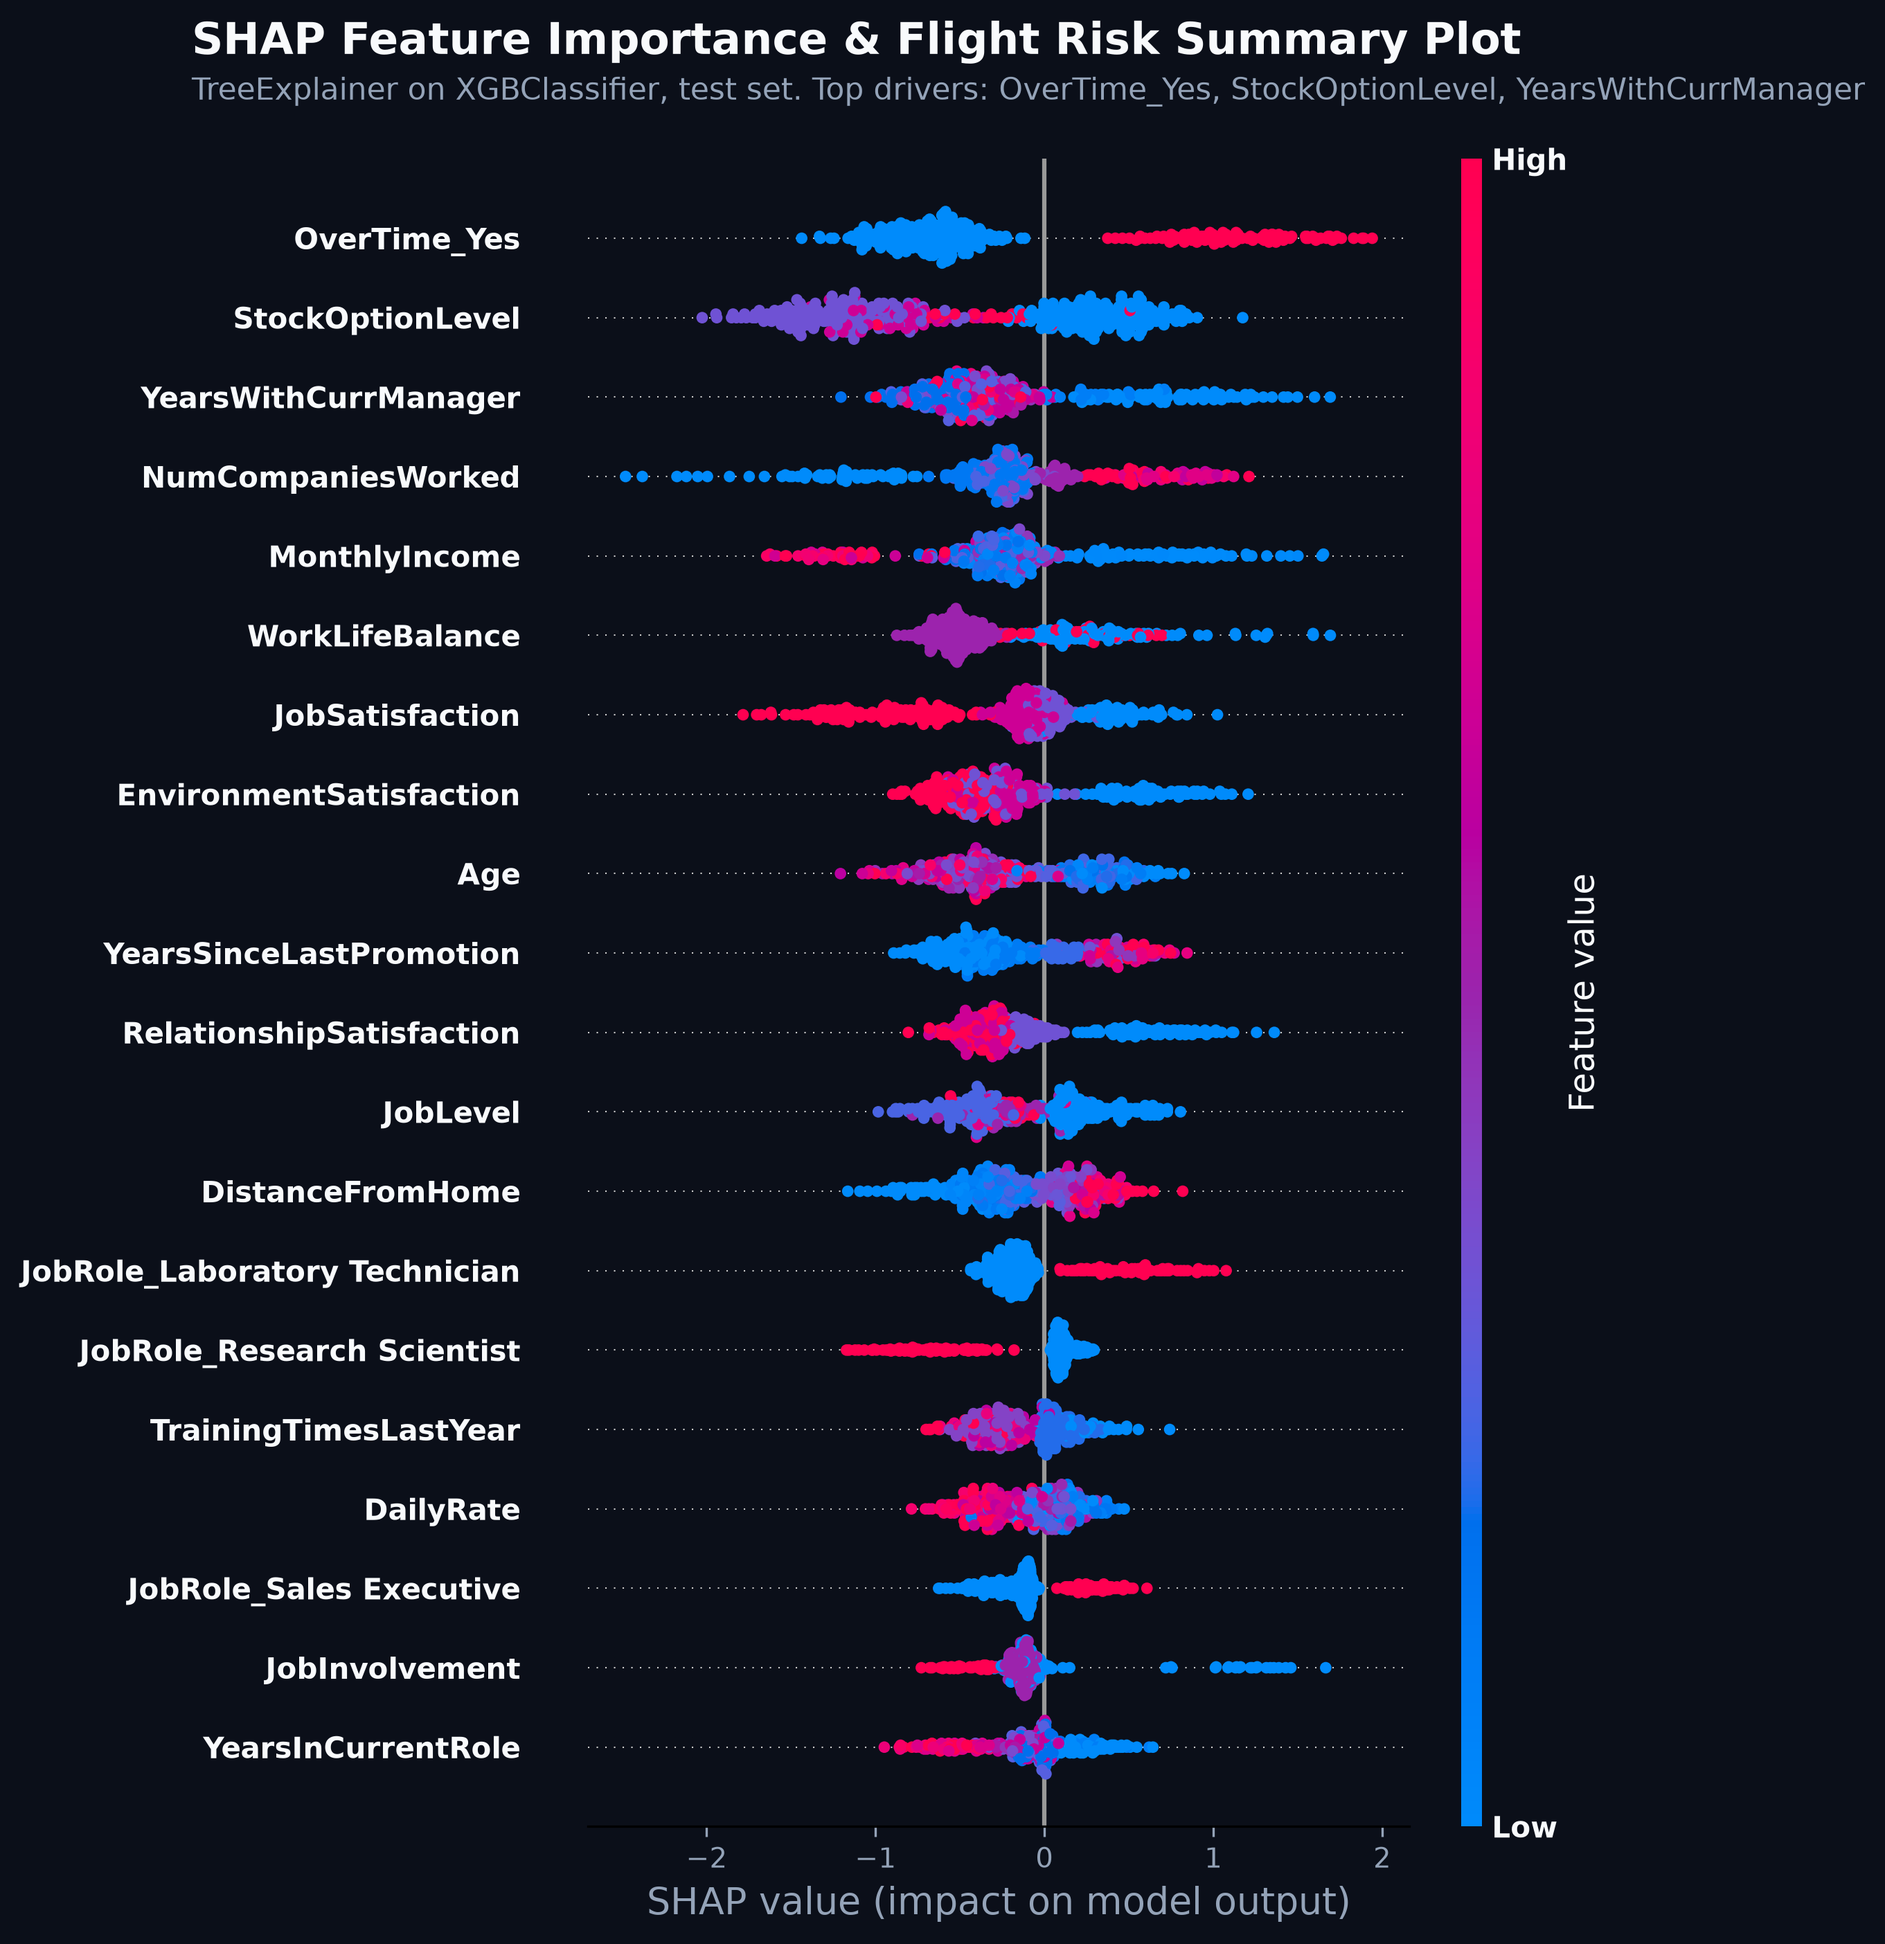
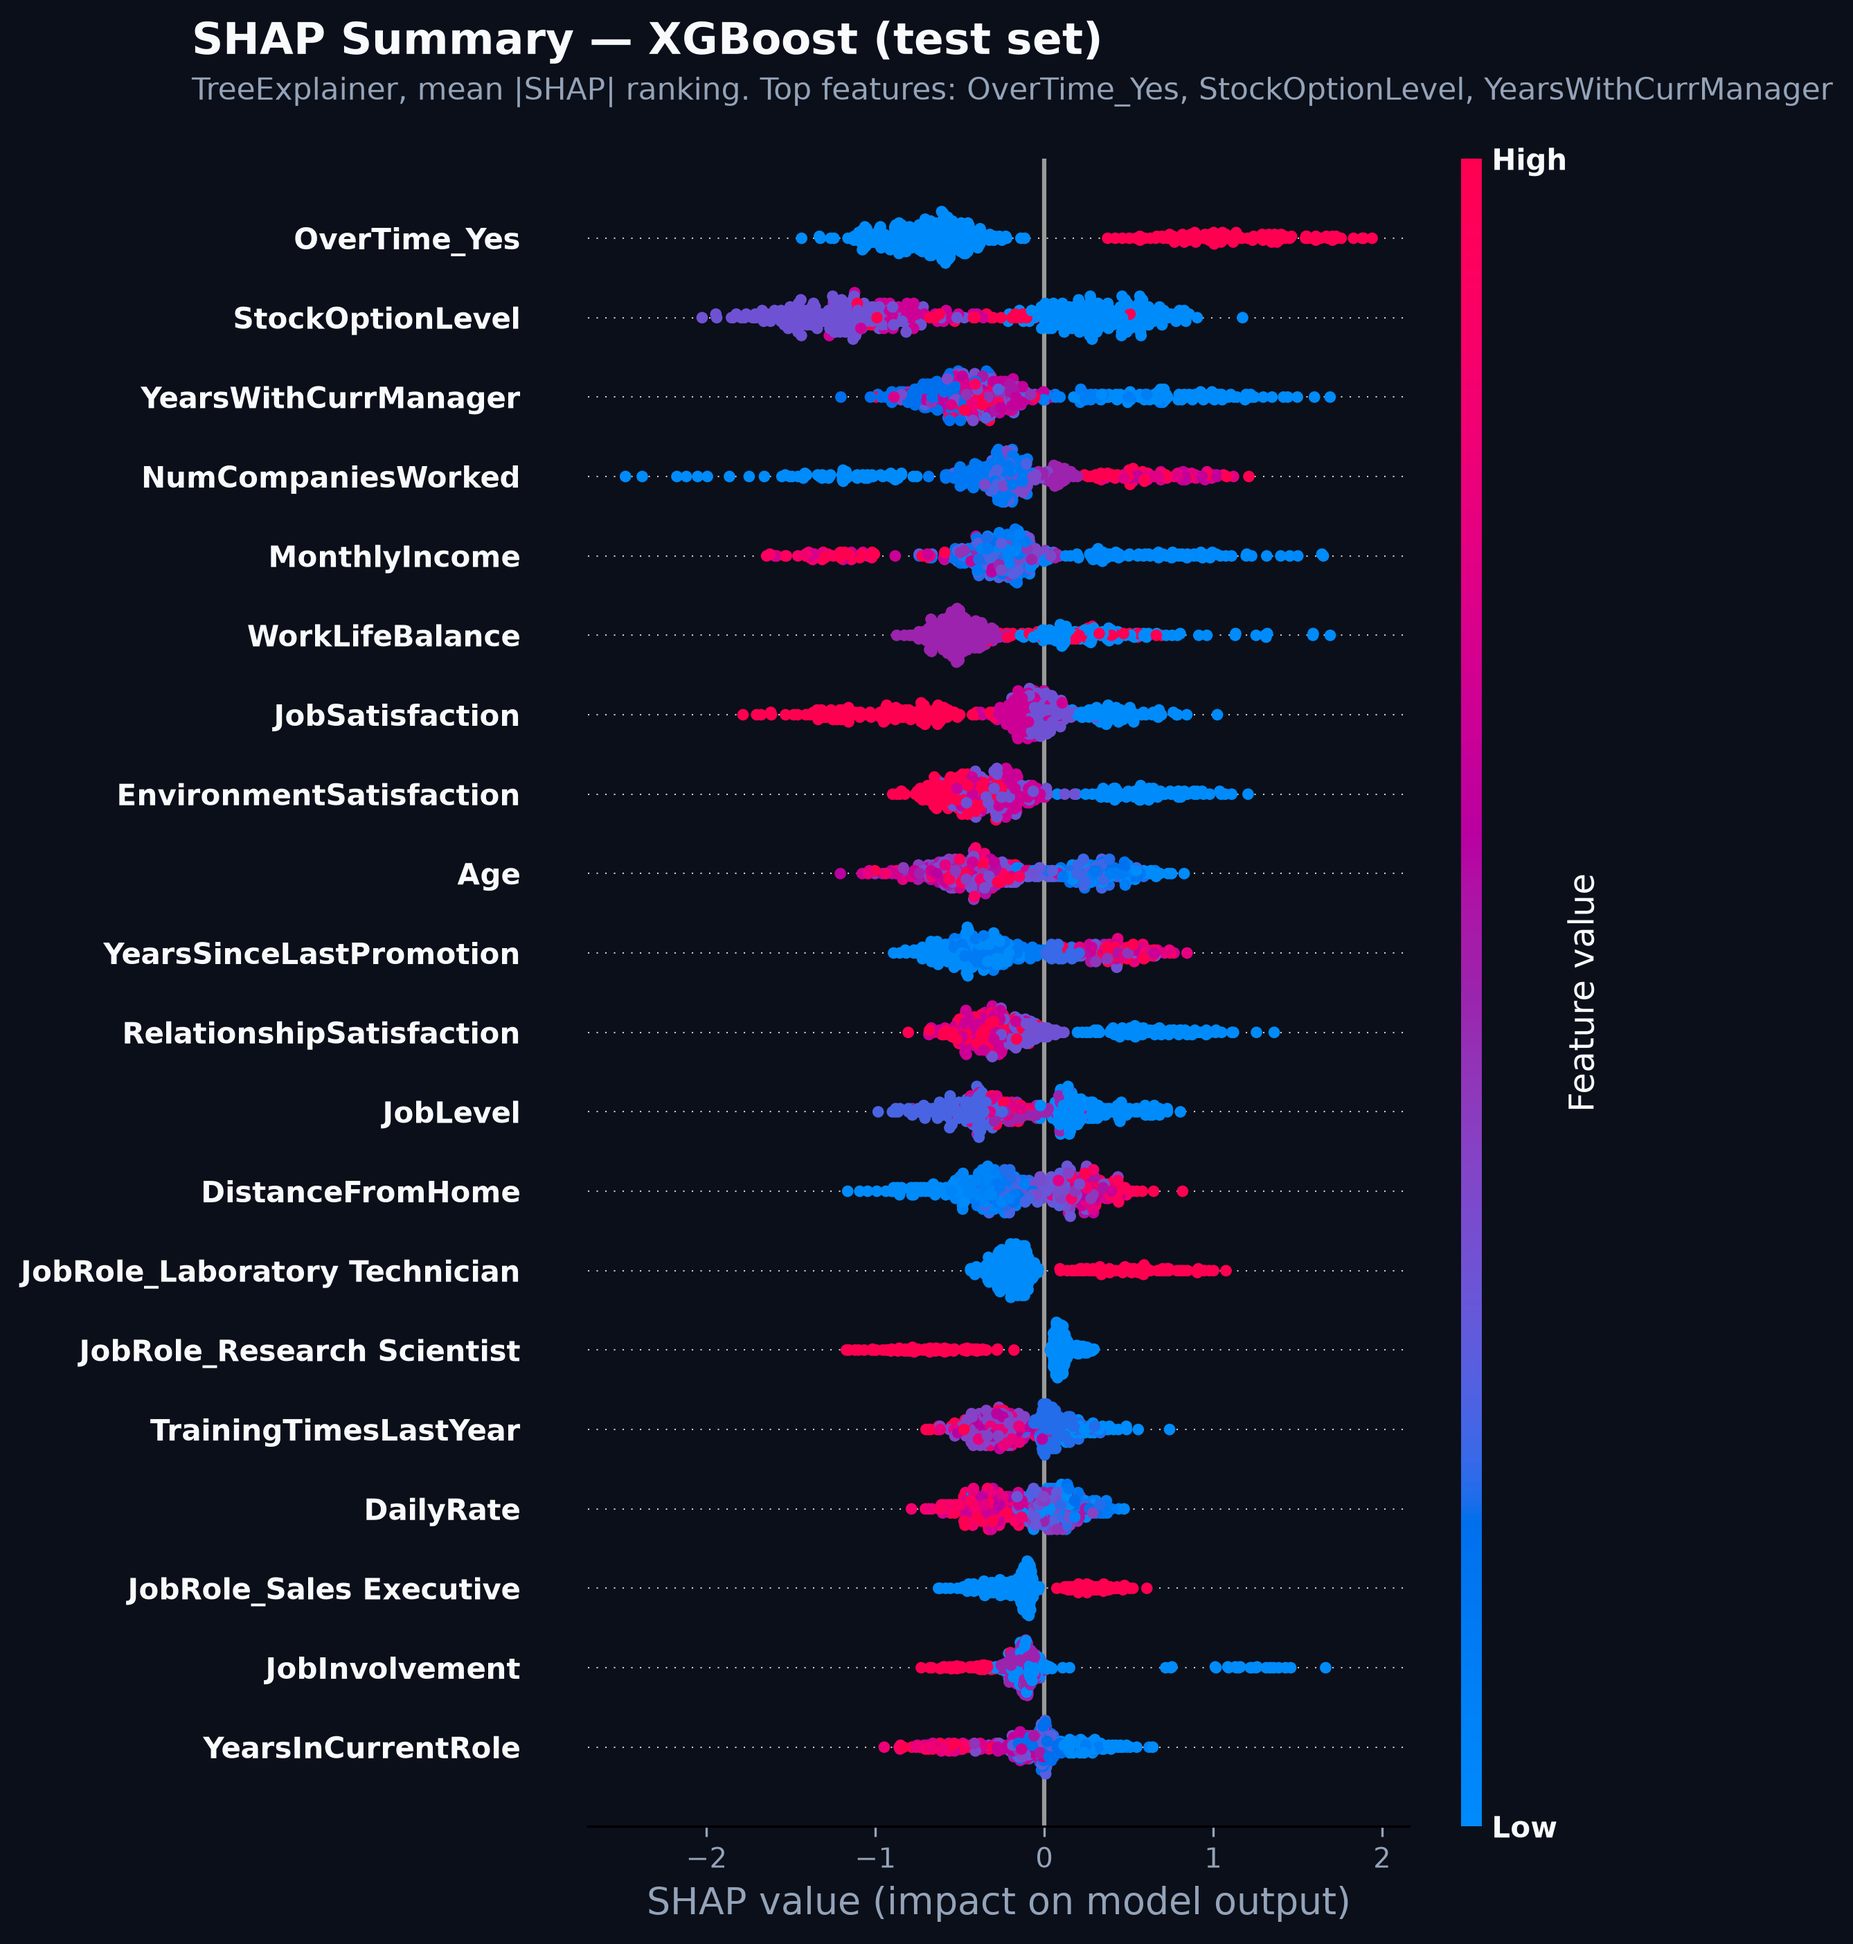
fix: neutral SHAP plot title

diff --git a/src/evaluate.py b/src/evaluate.py
@@ -249,6 +249,7 @@ def generate_shap_explainability(
     pipeline: Any,
     X_train: pd.DataFrame,
     X_test: pd.DataFrame,
+    model_name: str,
     output_path: str = os.path.join(ASSETS_DIR, "shap_summary.png"),
     max_samples: int = 500,
     top_n: int = 10,
@@ -263,6 +264,7 @@ def generate_shap_explainability(
         pipeline (Any): Fitted imblearn Pipeline (scale -> SMOTENC -> encode -> model).
         X_train (pd.DataFrame): Raw training features (LinearExplainer background).
         X_test (pd.DataFrame): Raw test features to explain.
+        model_name (str): MODEL_LABELS key of the explained model, used in the plot title.
         output_path (str): File destination path for SHAP plot artifact.
         max_samples (int): Sample size cap to accelerate SHAP computation.
         top_n (int): Number of top features to return.
@@ -312,8 +314,8 @@ def generate_shap_explainability(
             t.set_fontweight('bold')
 
     top3 = ", ".join(f["feature"] for f in top_features[:3])
-    fig.suptitle("SHAP Feature Importance & Flight Risk Summary Plot", fontsize=15, fontweight='bold', color=TEXT_COLOR, x=0.125, y=0.98, ha='left')
-    fig.text(0.125, 0.94, f"{explainer_name} on {type(model).__name__}, test set. Top drivers: {top3}", fontsize=10.5, color=MUTED_TEXT)
+    fig.suptitle(f"SHAP Summary — {MODEL_LABELS[model_name]} (test set)", fontsize=15, fontweight='bold', color=TEXT_COLOR, x=0.125, y=0.98, ha='left')
+    fig.text(0.125, 0.94, f"{explainer_name}, mean |SHAP| ranking. Top features: {top3}", fontsize=10.5, color=MUTED_TEXT)
 
     plt.tight_layout()
     plt.subplots_adjust(top=0.91)
@@ -364,7 +366,7 @@ def run_full_pipeline_evaluation(generate_shap: bool = True) -> Dict[str, Any]:
 
     top_features = []
     if generate_shap:
-        top_features = generate_shap_explainability(artifacts["models"][headline], X_train, X_test)
+        top_features = generate_shap_explainability(artifacts["models"][headline], X_train, X_test, headline)
 
     n_features = artifacts["models"][headline][:-1].transform(X_test.head(1)).shape[1]
     metrics = {
